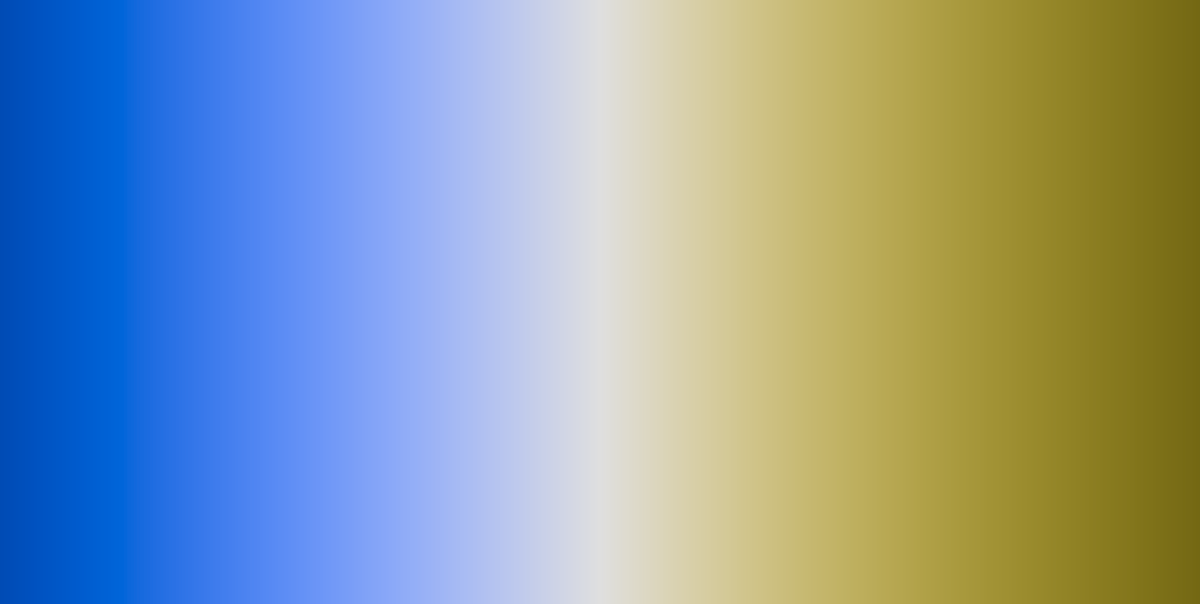
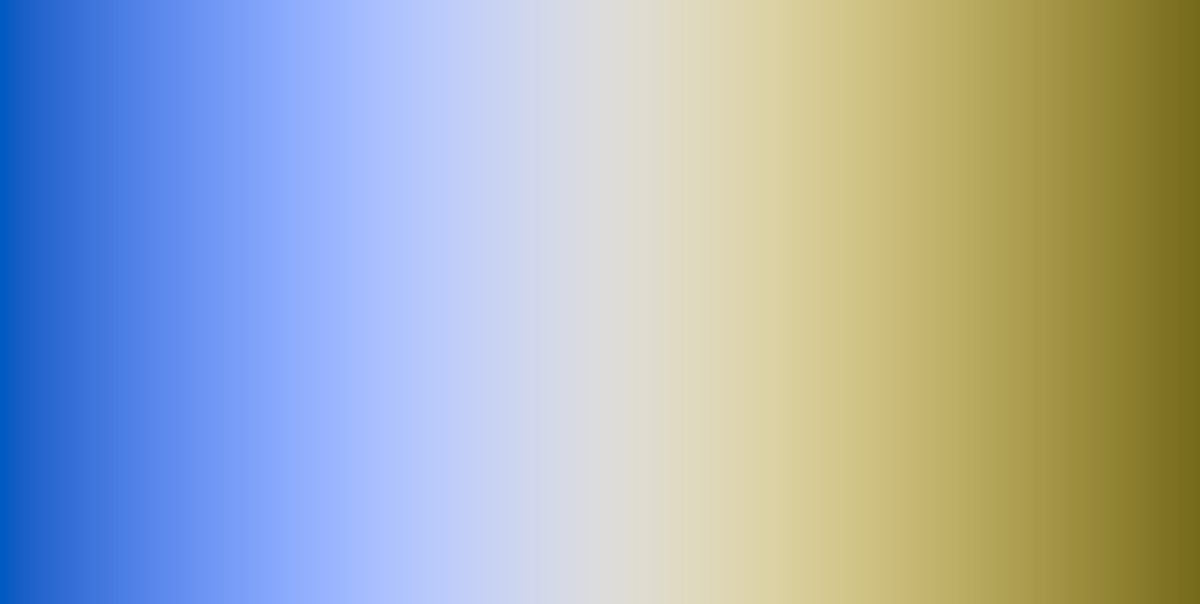
Fixed color-deficient vision approximations.
git-svn-id: svn+ssh://vizrd.srn.sandia.gov/svnroot/kmorel/papers/ColorMaps/trunk@1155 61430140-fc74-48ae-be37-35807f1eb91a

diff --git a/ColorMaps.tex b/ColorMaps.tex
@@ -1098,8 +1098,8 @@ demonstrated in Figure~\ref{fig:ColorMapInteraction}.
     contrast sensitivity function, a low-frequency sensitivity function,
     high-frequency noise, an approximation of the color map viewed by
     someone with deuteranope color-deficient vision (computed with
-    Vischeck), and 3D shading.  \sticky{Fix color-deficient and 3D
-      rendering of cool/warm and isoluminant.}}
+    Vischeck), and 3D shading.  \sticky{Fix 3D rendering of cool/warm and
+      isoluminant.}}
   \label{fig:MapComparison}
 \end{figure*}
 
